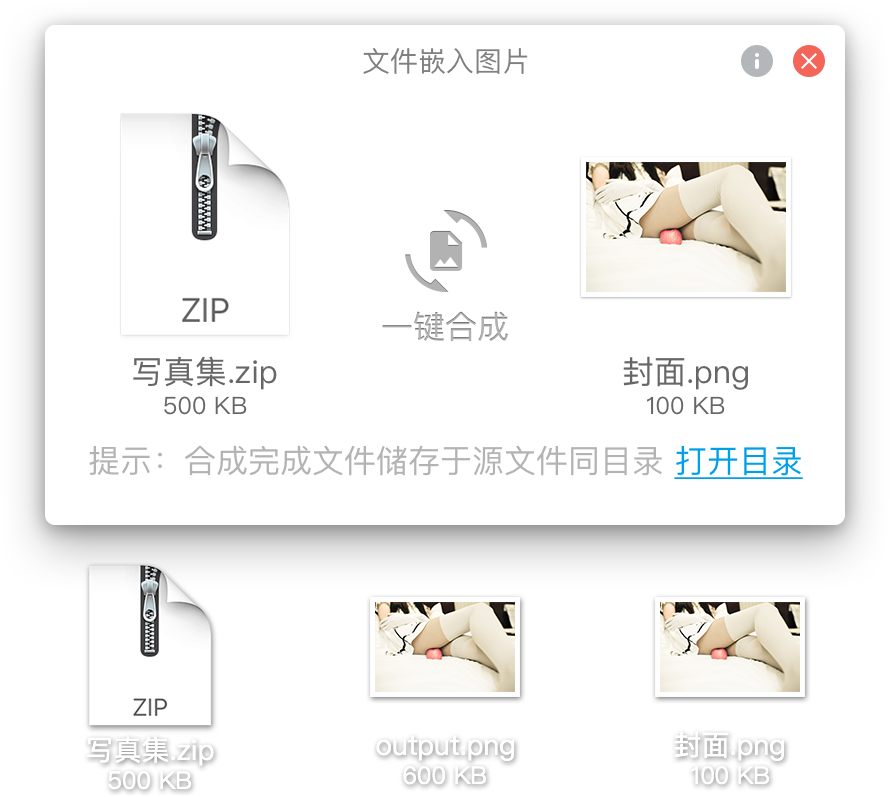
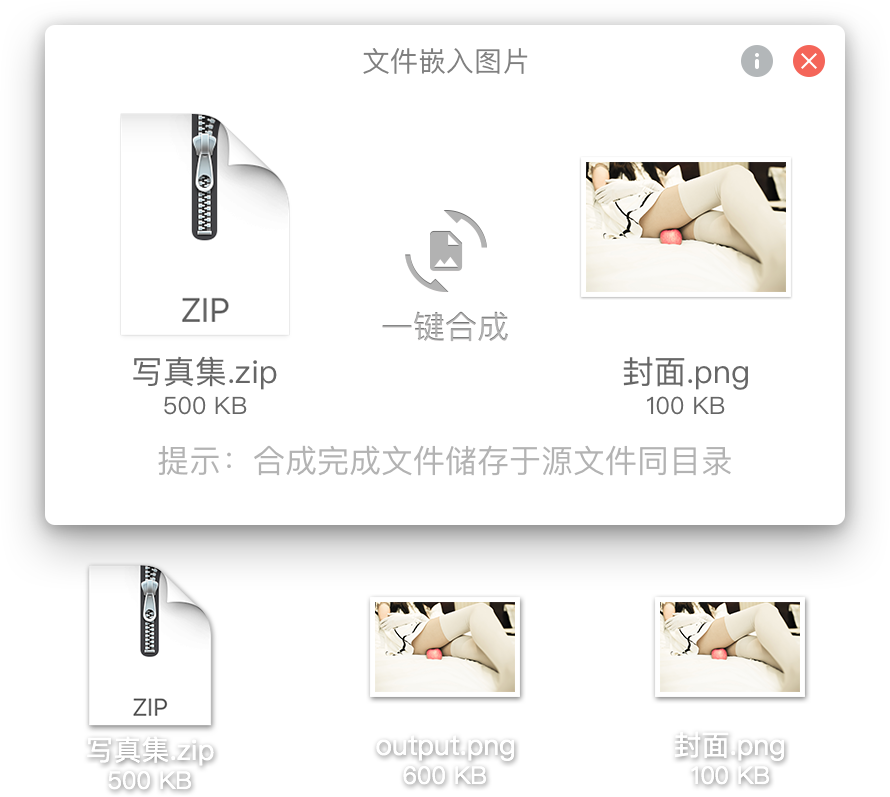
Add Image preview, suggest changes after synthesis, detect file format, launch and use counts.

Changed region(s): [[0.091, 0.542, 0.9101, 0.6023]]

diff --git a/FileInImage/MainWindow.xaml b/FileInImage/MainWindow.xaml
@@ -28,15 +28,15 @@
         <!-- 一键合成按钮 -->
         <Image Height="70" Name="SynthesisButton"  Source="Image/button.png" Stretch="Fill" Width="70" Margin="0,0,0,16" Cursor="Hand" MouseLeftButtonDown="SynthesisButton_MouseLeftButtonDown" MouseLeftButtonUp="SynthesisButton_MouseLeftButtonUp"/>
         <!-- 拖入文件区域 -->
-        <Image MouseLeftButtonDown="DragWindow_MouseLeftButtonDown" Margin="42,53,282,121" Source="Image/icon_file.png" Stretch="Fill" AllowDrop="True" Drop="FileDrop"/>
-        <Label MouseLeftButtonDown="DragWindow_MouseLeftButtonDown" Content="拖入文件" HorizontalAlignment="Center" Margin="42,176,282,0" VerticalAlignment="Top" HorizontalContentAlignment="Center" Width="120" FontSize="16" Padding="0" Foreground="#FFB2B2B2"/>
+        <Image Name="DropFileBG" MouseLeftButtonDown="DragWindow_MouseLeftButtonDown" Margin="42,53,282,121" Source="Image/icon_file.png" Stretch="Fill" AllowDrop="True" Drop="FileDrop"/>
+        <Label Name="DropFileTitle" MouseLeftButtonDown="DragWindow_MouseLeftButtonDown" Content="拖入文件" HorizontalAlignment="Center" Margin="42,176,282,0" VerticalAlignment="Top" HorizontalContentAlignment="Center" Width="120" FontSize="16" Padding="0" Foreground="#FFB2B2B2"/>
         <Label x:Name="fileSize" MouseLeftButtonDown="DragWindow_MouseLeftButtonDown" Content="0 KB" HorizontalAlignment="Center" Margin="42,196,282,0" VerticalAlignment="Top" HorizontalContentAlignment="Center" Width="120" Padding="0" Foreground="#FFB2B2B2"/>
         <!-- 拖入图片区域 -->
-        <Image MouseLeftButtonDown="DragWindow_MouseLeftButtonDown" Margin="282,53,42,121" Source="Image/icon_image.png" Stretch="Fill" AllowDrop="True" Drop="ImageDrop"/>
-        <Label MouseLeftButtonDown="DragWindow_MouseLeftButtonDown" Content="拖入图片" HorizontalAlignment="Center" Margin="282,176,42,0" VerticalAlignment="Top" HorizontalContentAlignment="Center" Width="120" FontSize="16" Padding="0" Foreground="#FFB2B2B2"/>
+        <Image x:Name="target" MouseLeftButtonDown="DragWindow_MouseLeftButtonDown" Margin="282,53,42,121" Source="Image/icon_image.png" Stretch="Fill" AllowDrop="True" Drop="ImageDrop"/>
+        <Label  Name="DropImageTitle" MouseLeftButtonDown="DragWindow_MouseLeftButtonDown" Content="拖入图片" HorizontalAlignment="Center" Margin="282,176,42,0" VerticalAlignment="Top" HorizontalContentAlignment="Center" Width="120" FontSize="16" Padding="0" Foreground="#FFB2B2B2"/>
         <Label x:Name="imageSize" MouseLeftButtonDown="DragWindow_MouseLeftButtonDown" Content="0 KB" HorizontalAlignment="Center" Margin="282,196,42,0" VerticalAlignment="Top" HorizontalContentAlignment="Center" Width="120" Padding="0" Foreground="#FFB2B2B2"/>
         <!-- 提示条 -->
-        <Label MouseLeftButtonDown="DragWindow_MouseLeftButtonDown" Content="提示：两边拖入对应文件后点击中间合成按钮" HorizontalAlignment="Center" Margin="33,222,33,0" VerticalAlignment="Top" HorizontalContentAlignment="Center" Width="378" Padding="0" Foreground="#FFB2B2B2" FontSize="16"/>
-
+        <Label Name="tip" MouseLeftButtonDown="DragWindow_MouseLeftButtonDown" Content="提示：两边拖入对应文件后点击中间合成按钮" HorizontalAlignment="Center" Margin="33,222,33,0" VerticalAlignment="Top" HorizontalContentAlignment="Center" Width="378" Padding="0" Foreground="#FFB2B2B2" FontSize="16"/>
+        <!-- <Image HorizontalAlignment="Left" Height="100" VerticalAlignment="Top" Width="100"/> -->
     </Grid>
 </Window>

diff --git a/FileInImage/InfoWindow.xaml b/FileInImage/InfoWindow.xaml
@@ -15,7 +15,7 @@
         <Image Margin="375,22,33,283" Source="Image/Icon-close.png" Stretch="Fill" Width="16" Height="16" Cursor="Hand" MouseLeftButtonDown="Image_MouseLeftButtonDown"/>
 
         <Label MouseLeftButtonDown="DragWindow_MouseLeftButtonDown" Content="File In Image" HorizontalAlignment="Center" VerticalAlignment="Top" HorizontalContentAlignment="Center" Foreground="#FF333333" Padding="0" FontSize="16" Width="166" Margin="0,146,0,0"/>
-        <Label MouseLeftButtonDown="DragWindow_MouseLeftButtonDown" Content="version 1.0.0" HorizontalAlignment="Center" VerticalAlignment="Top" HorizontalContentAlignment="Center" Foreground="Gray" Padding="0" Width="166" Margin="129,166,129,0" FontSize="14"/>
+        <Label MouseLeftButtonDown="DragWindow_MouseLeftButtonDown" Content="version 1.0.1" HorizontalAlignment="Center" VerticalAlignment="Top" HorizontalContentAlignment="Center" Foreground="Gray" Padding="0" Width="166" Margin="129,166,129,0" FontSize="14"/>
         <TextBlock TextAlignment="Center"  HorizontalAlignment="Center" TextWrapping="Wrap" VerticalAlignment="Top" Margin="33,189,33,0" FontSize="14" Foreground="Gray" Width="358">
             <Run MouseLeftButtonDown="DragWindow_MouseLeftButtonDown" Text="Developed by Skim, JoJunIori."/><LineBreak/>
             <Run MouseLeftButtonDown="DragWindow_MouseLeftButtonDown" Text="Designed by JoJunIori."/><LineBreak/>

diff --git a/FileInImage/MainWindow.xaml.cs b/FileInImage/MainWindow.xaml.cs
@@ -12,6 +12,11 @@ using System.Windows.Media;
 using System.Windows.Media.Imaging;
 using System.Windows.Navigation;
 using System.Windows.Shapes;
+using System.Net;
+using System.Drawing;
+using System.Drawing.Drawing2D;
+using System.Drawing.Imaging;
+using System.Windows.Interop;
 
 namespace FileInImage
 {
@@ -23,6 +28,19 @@ namespace FileInImage
         public MainWindow()
         {
             InitializeComponent();
+            // 统计启动次数
+            string strURL = "http://192.168.0.104:8000/software/FileInImage/launch";
+            System.Net.HttpWebRequest request;
+            request = (System.Net.HttpWebRequest)WebRequest.Create(strURL);
+            request.Method = "POST"; // Post请求方式
+            request.ContentType = "application/x-www-form-urlencoded"; // 内容类型
+            System.Net.HttpWebResponse response;
+            // 获得响应流
+            response = (System.Net.HttpWebResponse)request.GetResponse();
+            System.IO.StreamReader myreader = new System.IO.StreamReader(response.GetResponseStream(), Encoding.UTF8);
+            // string responseText = myreader.ReadToEnd();
+            myreader.Close();
+            // MessageBox.Show(responseText);
         }
 
         // 实现整个窗口的拖动
@@ -30,6 +48,161 @@ namespace FileInImage
         {
             base.DragMove();
         }
+
+        // 打开Info窗口
+        private void WindowOpenInfo_MouseLeftButtonDown(object sender, MouseButtonEventArgs e)
+        {
+            Info window = new Info();
+            window.Show();
+
+        }
+        // 关闭窗口
+        private void WindowClose_MouseLeftButtonDown(object sender, MouseButtonEventArgs e)
+        {
+            Application.Current.Shutdown();
+        }
+        // 检测主窗口关闭则关闭程序
+        protected override void OnClosed(EventArgs e)
+        {
+            base.OnClosed(e);
+            Application.Current.Shutdown();
+        }
+        // 文件大小转换
+        private string fileSize2Text(double size)
+        {
+            int level = 0;
+            string[] suffixs = new string[4] { "B", "KB", "MB", "GB" };
+            while (size >= 1024 && level <= 2)
+            {
+                level++;
+                size /= 1024;
+            }
+
+            return level == 0 ? size + "B" : String.Format("{0:0.00}", size) + suffixs[level];
+        }
+        // 拖动文件事件
+        private void FileDrop(object sender, DragEventArgs e)
+        {
+            if (!e.Data.GetDataPresent(DataFormats.FileDrop))
+            {
+                return;
+            }
+            
+            string[] files = (string[])e.Data.GetData(DataFormats.FileDrop);
+            
+            if (files.Length > 0)
+            {
+                try
+                {
+                    file = new FileInfo(files[0]);
+                    
+                    string ext = System.IO.Path.GetExtension(file.ToString());
+                    if (ext == ".zip" || ext == ".rar" || ext == ".7z" || ext == ".tar" || ext == ".gz")
+                    {
+                        // File size
+                        fileSize.Content = fileSize2Text(file.Length);
+                        // File Image
+                        DropFileBG.Source = new BitmapImage(new Uri(@"\Image\icon_fileInputted.png", UriKind.Relative));
+                        // File Name
+                        DropFileTitle.Content = file.Name.ToString();
+                    }
+                    else
+                    {
+                        return;
+                    }
+
+                }
+                catch (Exception)
+                {
+                    file = null;
+                }
+            }
+        }
+        // 拖动图片事件
+        private void ImageDrop(object sender, DragEventArgs e)
+        {
+            if (!e.Data.GetDataPresent(DataFormats.FileDrop))
+            {
+                return;
+            }
+            
+            string[] files = (string[])e.Data.GetData(DataFormats.FileDrop);
+
+            if (files.Length > 0)
+            {
+                try
+                {
+                    img = new FileInfo(files[0]);
+                    
+                    string ext = System.IO.Path.GetExtension(img.ToString());
+                    if (ext == ".jpg" || ext == ".jpeg" || ext == ".png" || ext == ".bmp" || ext == ".gif")
+                    {
+                        // Image size
+                        imageSize.Content = fileSize2Text(img.Length);
+                        // Image preview
+                        Bitmap bi3 = CreateBitmapThumbNail(files[0], target.RenderSize.Height, target.RenderSize.Width);
+                        target.Stretch = Stretch.Uniform;
+                        target.Source = ChangeBitmapToImageSource(bi3);
+                        // Image name
+                        DropImageTitle.Content = file.Name.ToString();
+                    }
+                    else
+                    {
+                        return;
+                    }
+                }
+                catch (Exception)
+                {
+                    file = null;
+                }
+            }
+        }
+        // 预览缩略图
+        private Bitmap CreateBitmapThumbNail(string fromFile, double maxWidth, double maxHeight)
+        {
+            System.Drawing.Image image = System.Drawing.Image.FromFile(fromFile);
+            float scale = (float)Math.Max(maxWidth / image.Width, maxHeight / image.Height);
+            var destRect = new System.Drawing.Rectangle(0, 0, (int)(image.Width * scale), (int)(image.Height * scale));
+
+            var destImage = new Bitmap(destRect.Width, destRect.Height);
+
+            destImage.SetResolution(image.HorizontalResolution, image.VerticalResolution);
+
+            using (var graphics = Graphics.FromImage(destImage))
+            {
+                graphics.CompositingMode = CompositingMode.SourceCopy;
+                //graphics.CompositingQuality = CompositingQuality.HighQuality;
+                //graphics.InterpolationMode = InterpolationMode.HighQualityBicubic;
+                graphics.InterpolationMode = InterpolationMode.HighQualityBicubic;
+                //graphics.SmoothingMode = SmoothingMode.HighQuality;
+                //graphics.PixelOffsetMode = PixelOffsetMode.HighQuality;
+
+                using (var wrapMode = new ImageAttributes())
+                {
+                    wrapMode.SetWrapMode(WrapMode.TileFlipXY);
+                    graphics.DrawImage(image, destRect, 0, 0, image.Width, image.Height, GraphicsUnit.Pixel, wrapMode);
+                }
+            }
+
+            return destImage;
+        }
+
+        public static ImageSource ChangeBitmapToImageSource(Bitmap bitmap)
+        {
+            IntPtr hBitmap = bitmap.GetHbitmap();
+            ImageSource wpfBitmap = System.Windows.Interop.Imaging.CreateBitmapSourceFromHBitmap(
+                hBitmap,
+                IntPtr.Zero,
+                Int32Rect.Empty,
+                BitmapSizeOptions.FromEmptyOptions());
+
+            return wpfBitmap;
+        }
+
+        private FileInfo file=null;
+        private FileInfo img=null;
+
+
         // 合成按钮点击效果
         private void SynthesisButton_MouseLeftButtonDown(object sender, MouseButtonEventArgs e)
         {
@@ -45,90 +218,27 @@ namespace FileInImage
                 i.Close();
                 f.Close();
                 output.Close();
+
+                // 统计合成次数
+                string strURL = "http://192.168.0.104:8000/software/FileInImage/use";
+                System.Net.HttpWebRequest request;
+                request = (System.Net.HttpWebRequest)WebRequest.Create(strURL);
+                request.Method = "POST"; // Post请求方式
+                request.ContentType = "application/x-www-form-urlencoded"; // 内容类型
+                System.Net.HttpWebResponse response;
+                // 获得响应流
+                response = (System.Net.HttpWebResponse)request.GetResponse();
+                System.IO.StreamReader myreader = new System.IO.StreamReader(response.GetResponseStream(), Encoding.UTF8);
+                // string responseText = myreader.ReadToEnd();
+                myreader.Close();
+                // MessageBox.Show(responseText);
+
+                tip.Content = "提示：合成完成文件储存于压缩包源文件同目录";
             }
         }
         private void SynthesisButton_MouseLeftButtonUp(object sender, MouseButtonEventArgs e)
         {
             SynthesisButton.Margin = new Thickness(0, 0, 0, 16);
         }
-        // 打开Info窗口
-        private void WindowOpenInfo_MouseLeftButtonDown(object sender, MouseButtonEventArgs e)
-        {
-            Info window = new Info();
-            window.Show();
-        }
-        // 关闭窗口
-        private void WindowClose_MouseLeftButtonDown(object sender, MouseButtonEventArgs e)
-        {
-            Application.Current.Shutdown();
-        }
-        // 检测主窗口关闭则关闭程序
-        protected override void OnClosed(EventArgs e)
-        {
-            base.OnClosed(e);
-            Application.Current.Shutdown();
-        }
-
-        private void FileDrop(object sender, DragEventArgs e)
-        {
-            if (!e.Data.GetDataPresent(DataFormats.FileDrop))
-            {
-                return;
-            }
-            
-            string[] files = (string[])e.Data.GetData(DataFormats.FileDrop);
-            
-            if (files.Length > 0)
-            {
-                try
-                {
-                    file = new FileInfo(files[0]);
-                    fileSize.Content = fileSize2Text(file.Length);
-                }
-                catch (Exception)
-                {
-                    file = null;
-                }
-            }
-        }
-
-        private string fileSize2Text(double size)
-        {
-            int level = 0;
-            string[] suffixs = new string[4] { "B", "KB", "MB", "GB" };
-            while (size >= 1024 && level <= 2)
-            {
-                level++;
-                size /= 1024;
-            }
-
-            return level == 0 ? size + "B" : String.Format("{0:0.00}", size) + suffixs[level];
-        }
-
-        private void ImageDrop(object sender, DragEventArgs e)
-        {
-            if (!e.Data.GetDataPresent(DataFormats.FileDrop))
-            {
-                return;
-            }
-            
-            string[] files = (string[])e.Data.GetData(DataFormats.FileDrop);
-
-            if (files.Length > 0)
-            {
-                try
-                {
-                    img = new FileInfo(files[0]);
-                    imageSize.Content = fileSize2Text(img.Length);
-                }
-                catch (Exception)
-                {
-                    file = null;
-                }
-            }
-        }
-
-        private FileInfo file=null;
-        private FileInfo img=null;
     }
 }

diff --git a/FileInImage/InfoWindow.xaml.cs b/FileInImage/InfoWindow.xaml.cs
@@ -39,7 +39,7 @@ namespace FileInImage
         }
         private void OpenWebMoem_MouseLeftButtonDown(object sender, MouseButtonEventArgs e)
         {
-            System.Diagnostics.Process.Start("http://www.moem.cc/");
+            System.Diagnostics.Process.Start("https://www.moem.cc/");
         }
     }
 }
